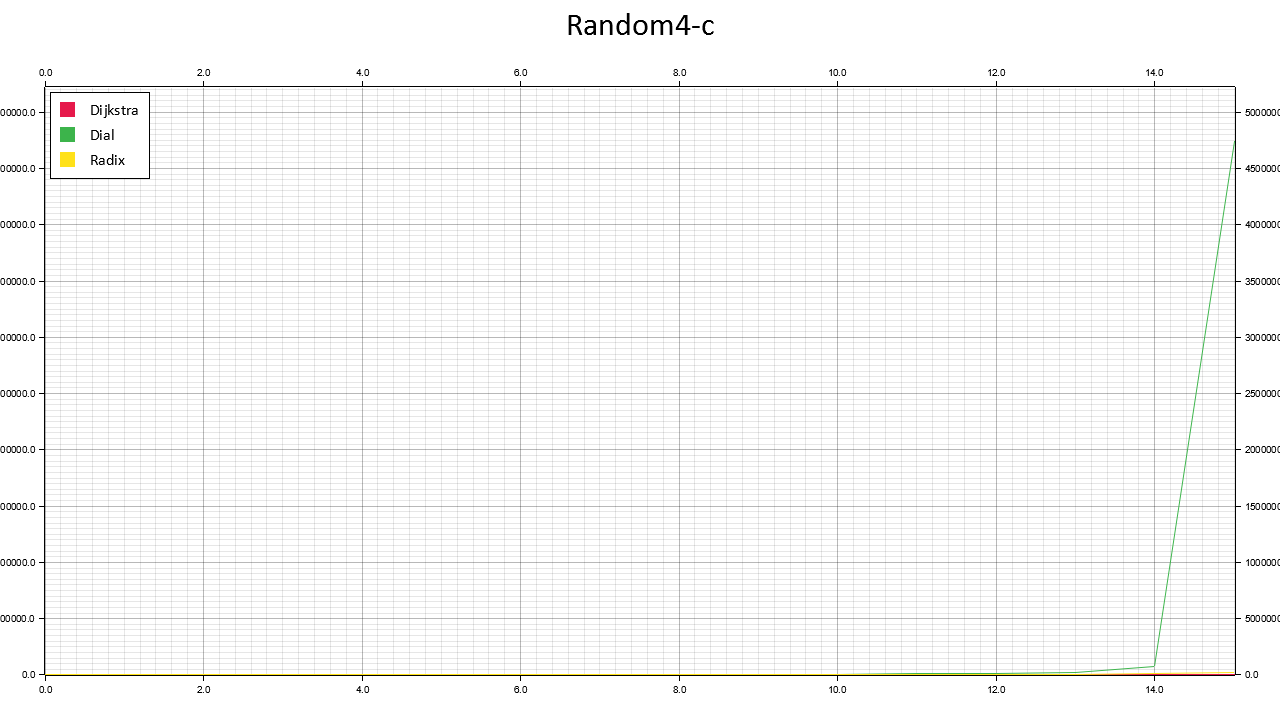
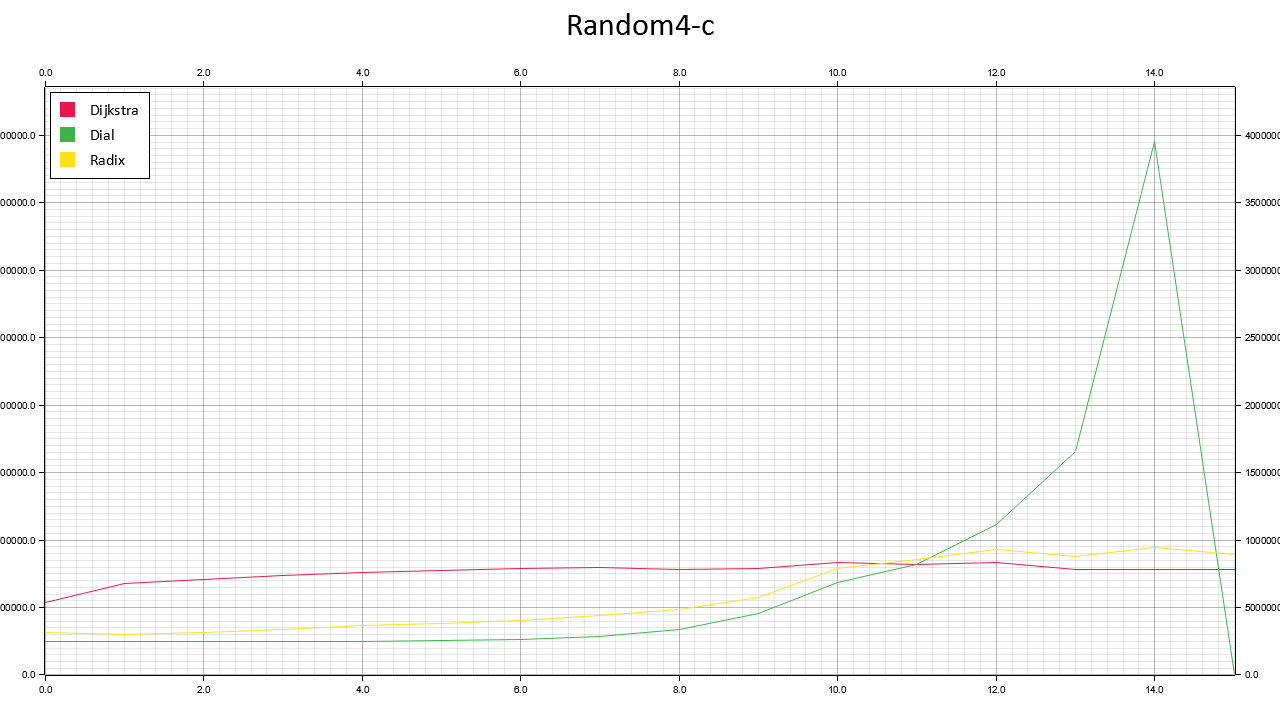
charts done

Changed region(s): [[0.0, 0.1222, 1.0, 0.9472], [0.0, 0.1528, 0.0312, 0.2444]]

diff --git a/src/algs/dial.rs b/src/algs/dial.rs
@@ -1,11 +1,18 @@
-use crate::algs::dial_bins::DialBins;
-use crate::algs::dijkstra::ShortestPaths;
+use crate::algs::dial_bins_vec::DialBinsVec;
+use crate::algs::dijkstra::{ShortestPath, ShortestPaths};
 use crate::graph::Graph;
 
 pub fn dial(graph: &Graph, start: usize, c: usize) -> ShortestPaths {
 
+    // if graph.vertices.len() > 2usize.pow(19) {
+    //     return ShortestPaths {
+    //         distance: vec![usize::MAX; graph.vertices.len()],
+    //         tree: vec![None; graph.vertices.len()],
+    //     }
+    // }
+
     let len = graph.vertices.len();
-    let mut bins = DialBins::new(c, len);
+    let mut bins = DialBinsVec::new(c, len);
     let mut previous = vec![None; len];
     bins.add(start, 0);
 
@@ -36,5 +43,49 @@ pub fn dial(graph: &Graph, start: usize, c: usize) -> ShortestPaths {
     ShortestPaths {
         distance: bins.distance,
         tree: previous,
+    }
+}
+
+pub fn dial_pair(graph: &Graph, start: usize, end: usize, c: usize) -> ShortestPath {
+
+    let len = graph.vertices.len();
+    let mut bins = DialBinsVec::new(c, len);
+    let mut previous = vec![None; len];
+    bins.add(start, 0);
+
+    let mut count = 0;
+
+    while let Some(bin_contents) = bins.next() {
+        for current in bin_contents {
+
+            if current == end {
+                break;
+            }
+
+            let distance = bins.distance[current];
+            for edge in &graph.vertices[current].edges {
+                let v = edge.destination;
+                let alt = distance + edge.weight;
+
+                if alt < bins.distance[v] {
+                    bins.add(v, alt);
+                    previous[v] = Some(current);
+                }
+            }
+        }
+    }
+
+    let mut path = vec![];
+    let mut current = end;
+    while let Some(prev) = previous[current] {
+        path.push(current);
+        current = prev;
+    }
+    path.push(start);
+    path.reverse();
+
+    ShortestPath {
+        distance: bins.distance[end],
+        path,
     }
 }

diff --git a/src/bin/experiment_1.rs b/src/bin/experiment_1.rs
@@ -1,7 +1,7 @@
 use djikstra::experiments::experiment_set::experiment_set;
 use std::ops::RangeInclusive;
-use rayon::prelude::IntoParallelIterator;
-use rayon::iter::ParallelIterator;
+// use rayon::prelude::IntoParallelIterator;
+// use rayon::iter::ParallelIterator;
 
 fn main() {
     let usa_types = vec![
@@ -12,12 +12,12 @@ fn main() {
     let inputs:Vec<(&str, RangeInclusive<usize>, fn(usize) ->String)> = vec![
         // ("Random4-n", 10..=21, |x| format!("ch9-1.1/inputs/Random4-n/Random4-n.{}.0.gr", x)), //success
         // ("Random4-c", 0..=15, |x| format!("ch9-1.1/inputs/Random4-c/Random4-c.{}.0.gr", x)), //success
-        // ("Long-n", 10..=21, |x| format!("ch9-1.1/inputs/Long-n/Long-n.{}.0.gr", x)), //success
+        ("Long-n", 10..=21, |x| format!("ch9-1.1/inputs/Long-n/Long-n.{}.0.gr", x)), //success
         // ("Square-n", 10..=21, |x| format!("ch9-1.1/inputs/Square-n/Square-n.{}.0.gr", x)), //success
-        // ("Long-C", 0..=13, |x| format!("ch9-1.1/inputs/Long-C/Long-C.{}.0.gr", x)),
-        ("Square-C", 0..=14, |x| format!("ch9-1.1/inputs/Square-C/Square-C.{}.0.gr", x)),
-        ("USA-road-t", usa_range.clone(), |x| format!("ch9-1.1/inputs/USA-road-t/USA-road-t.{}.gr", usa_type(x))), //success
-        ("USA_road-d", usa_range.clone(), |x| format!("ch9-1.1/inputs/USA-road-d/USA-road-d.{}.gr", usa_type(x))) //success
+        // ("USA-road-t", usa_range.clone(), |x| format!("ch9-1.1/inputs/USA-road-t/USA-road-t.{}.gr", usa_type(x))), //success
+        // ("USA_road-d", usa_range.clone(), |x| format!("ch9-1.1/inputs/USA-road-d/USA-road-d.{}.gr", usa_type(x))), //success
+        // ("Long-C", 0..=13, |x| format!("ch9-1.1/inputs/Long-C/Long-C.{}.0.gr", x)), //success
+        // ("Square-C", 0..=14, |x| format!("ch9-1.1/inputs/Square-C/Square-C.{}.0.gr", x)), //success
     ];
 
     inputs.into_iter().for_each(|(name, range, path)| {

diff --git a/src/bin/experiment_2.rs b/src/bin/experiment_2.rs
@@ -1,0 +1,43 @@
+use rand::distr::Uniform;
+use rand::{rng, Rng};
+use djikstra::algs::dial::dial_pair;
+use djikstra::algs::dijkstra::dijkstra_pair;
+use djikstra::algs::radix_heap_alg::radix_heap_pair;
+use djikstra::graph::Graph;
+
+fn main() {
+    let inputs = vec![
+        ("Random4-n-21", "ch9-1.1/inputs/Random4-n/Random4-n.21.0.gr"), //success
+        ("Random4-c-15", "ch9-1.1/inputs/Random4-c/Random4-c.15.0.gr"), //success
+        ("Long-n-21", "ch9-1.1/inputs/Long-n/Long-n.21.0.gr"), //success
+        ("Square-n-21","ch9-1.1/inputs/Square-n/Square-n.21.0.gr"), //success
+        ("USA-road-t-CTR", "ch9-1.1/inputs/USA-road-t/USA-road-t.CTR.gr"), //success
+        ("USA_road-d-CTR", "ch9-1.1/inputs/USA-road-d/USA-road-d.CTR.gr"), //success
+        ("Long-C-13","ch9-1.1/inputs/Long-C/Long-C.13.0.gr"), //success
+        ("Square-C-14", "ch9-1.1/inputs/Square-C/Square-C.14.0.gr"),
+    ];
+
+    inputs.into_iter().for_each(|(name, path)| {
+        experiment_set(name, path);
+    });
+}
+
+fn experiment_set(name: &str, path: &str) {
+    println!("Running experiment set: {}", name);
+    let data = Graph::from_file(path);
+    let range = Uniform::new(0, data.vertices).unwrap();
+    let mut pairs = (0..5).map(|_| (rng().sample(range), rng().sample(range))).collect::<Vec<_>>();
+    pairs.push((0,data.vertices-1));
+
+    pairs.into_iter().for_each(|(start, end)| {
+        experiment(&data.graph, start, end, data.max_weight);
+    });
+}
+
+fn experiment(graph: &Graph, start: usize, end: usize, c: usize) {
+    let res_dial = dial_pair(&graph, start, end, c);
+    let res_radix = radix_heap_pair(&graph, start, end, c);
+    let res_dijkstra = dijkstra_pair(&graph, start, end);
+
+    println!("$ {} $,$ {} $,$ {} $,$ {} $,$ {} $,", start, end, res_dijkstra.distance, res_dial.distance, res_radix.distance);
+}

diff --git a/src/algs/radix_heap_alg.rs b/src/algs/radix_heap_alg.rs
@@ -1,4 +1,4 @@
-use crate::algs::dijkstra::ShortestPaths;
+use crate::algs::dijkstra::{ShortestPath, ShortestPaths};
 use crate::algs::radix_heap_vec::RadixHeapVec;
 use crate::graph::Graph;
 
@@ -18,9 +18,6 @@ pub fn radix_heap(graph: &Graph, start: usize, c: usize) -> ShortestPaths {
         //     println!("Done: {}%", count*100 / len);
         // }
 
-
-        // println!("Vertex: {}, distance: {}", vertex, heap.distance[vertex]);
-
         let distance = heap.distance[vertex];
         for edge in &graph.vertices[vertex].edges {
             let v = edge.destination;
@@ -36,5 +33,46 @@ pub fn radix_heap(graph: &Graph, start: usize, c: usize) -> ShortestPaths {
     ShortestPaths {
         distance: heap.distance,
         tree: previous,
+    }
+}
+
+pub fn radix_heap_pair(graph: &Graph, start: usize, end:usize, c: usize) -> ShortestPath {
+    let len = graph.vertices.len();
+
+    let mut heap = RadixHeapVec::new(len, c);
+    heap.add(start, 0);
+
+    let mut previous = vec![None; len];
+
+    while let Some(vertex) = heap.next() {
+
+        if vertex == end {
+            break;
+        }
+
+        let distance = heap.distance[vertex];
+        for edge in &graph.vertices[vertex].edges {
+            let v = edge.destination;
+            let alt = distance + edge.weight;
+
+            if alt < heap.distance[v] {
+                heap.decrease_key(v, alt);
+                previous[v] = Some(vertex);
+            }
+        }
+    }
+
+    let mut path = vec![];
+    let mut current = end;
+    while let Some(prev) = previous[current] {
+        path.push(current);
+        current = prev;
+    }
+    path.push(start);
+    path.reverse();
+
+    ShortestPath {
+        distance: heap.distance[end],
+        path,
     }
 }

diff --git a/src/experiments/experiment.rs b/src/experiments/experiment.rs
@@ -3,22 +3,22 @@ use crate::algs::dijkstra::dijkstra;
 use crate::algs::radix_heap_alg::radix_heap;
 use crate::parsers::graph::GraphData;
 
-pub fn experiment(data: &GraphData, start: usize) -> ExperimentData {
+pub fn experiment(data: &GraphData, source: usize) -> ExperimentData {
     let dijkstra_time = {
         let start = std::time::Instant::now();
-        let _ = dijkstra(&data.graph, 0);
+        let _ = dijkstra(&data.graph, source);
         start.elapsed().as_nanos()
     } as f64;
 
     let dial_time = {
         let start = std::time::Instant::now();
-        let _ = dial(&data.graph, 0, data.max_weight);
+        let _ = dial(&data.graph, source, data.max_weight);
         start.elapsed().as_nanos()
     } as f64;
 
     let radix_time = {
         let start = std::time::Instant::now();
-        let _ = radix_heap(&data.graph, 0, data.max_weight);
+        let _ = radix_heap(&data.graph, source, data.max_weight);
         start.elapsed().as_nanos()
     } as f64;
 

diff --git a/src/bin/aa_test.rs b/src/bin/aa_test.rs
@@ -1,10 +1,10 @@
 use djikstra::algs::dial::dial;
-use djikstra::algs::radix_heap_alg::radix_heap;
+// use djikstra::algs::radix_heap_alg::radix_heap;
 use djikstra::graph::Graph;
 
 fn main() {
     // let data = Graph::from_file("ch9-1.1/inputs/Random4-c/Random4-c.0.0.gr");
-    let data = Graph::from_file("ch9-1.1/inputs/Square-C/Square-C.14.0.gr");
+    let data = Graph::from_file("ch9-1.1/inputs/Long-C/Long-C.13.0.gr");
     // let data = Graph::from_file("ch9-1.1/inputs/Long-C/Long-C.13.0.gr");
     println!("{:?}", data);
     let res = dial(&data.graph, 0, data.max_weight);

diff --git a/src/algs/radix_heap_vec.rs b/src/algs/radix_heap_vec.rs
@@ -62,7 +62,7 @@ impl RadixHeapVec {
                 }
 
                 let len = self.bins[bin].len();
-                let mut bin = std::mem::replace(&mut self.bins[bin], Vec::with_capacity(len));
+                let bin = std::mem::replace(&mut self.bins[bin], Vec::with_capacity(len));
                 let min = *bin.iter().min_by_key(|&x| self.distance[*x]).unwrap();
                 self.last = self.distance[min];
                 self.position[min] = None;

diff --git a/src/experiments/experiment_set.rs b/src/experiments/experiment_set.rs
@@ -11,7 +11,7 @@ use std::sync::{Arc, Mutex};
 
 pub fn experiment_set(name: &str, range: RangeInclusive<usize>, path: fn(usize) -> String) {
     let iter = range;
-    let mut indicator = Arc::new(Mutex::new(Indicator::new_linear(iter.clone(), name)));
+    let indicator = Arc::new(Mutex::new(Indicator::new_linear(iter.clone(), name)));
 
     let res = iter
         .clone()

diff --git a/src/algs/dial_bins.rs b/src/algs/dial_bins.rs
@@ -1,4 +1,4 @@
-use std::collections::{HashMap, HashSet, LinkedList};
+use std::collections::HashSet;
 
 pub struct DialBins {
     pub distance: Vec<usize>,

diff --git a/src/algs/dial_bins_vec.rs b/src/algs/dial_bins_vec.rs
@@ -1,5 +1,3 @@
-use std::collections::{HashMap, HashSet, LinkedList};
-
 pub struct DialBinsVec {
     pub distance: Vec<usize>,
     bins: Vec<Vec<usize>>,

diff --git a/src/experiments/indicator.rs b/src/experiments/indicator.rs
@@ -1,6 +1,5 @@
 use std::fmt::Display;
 use std::ops::{Div, Sub};
-use std::ptr::write;
 
 pub struct Indicator<T>
 {
